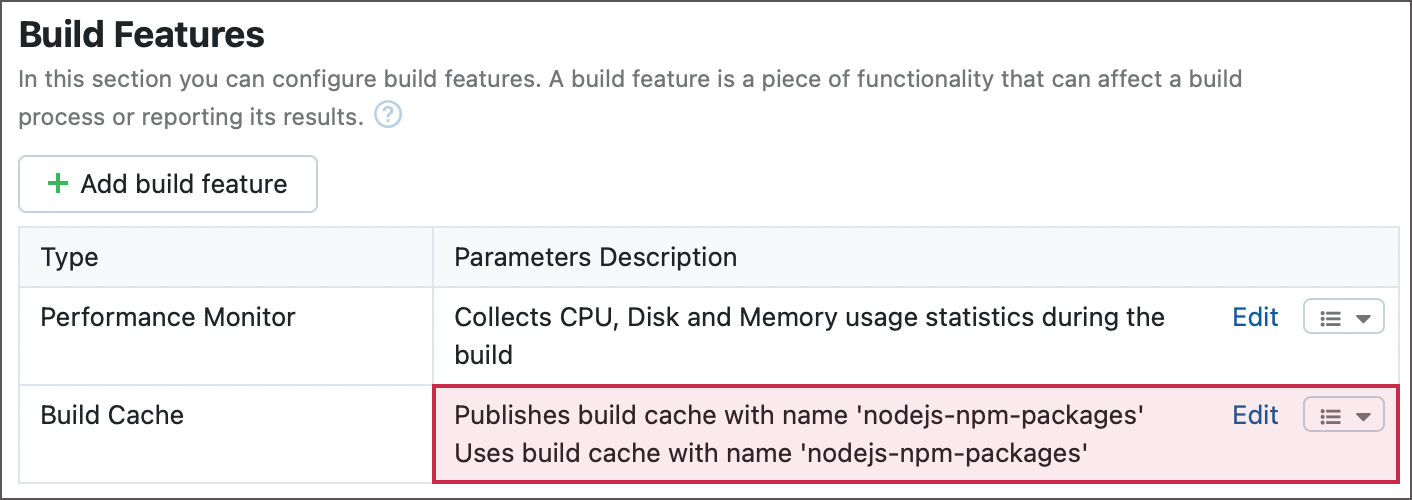
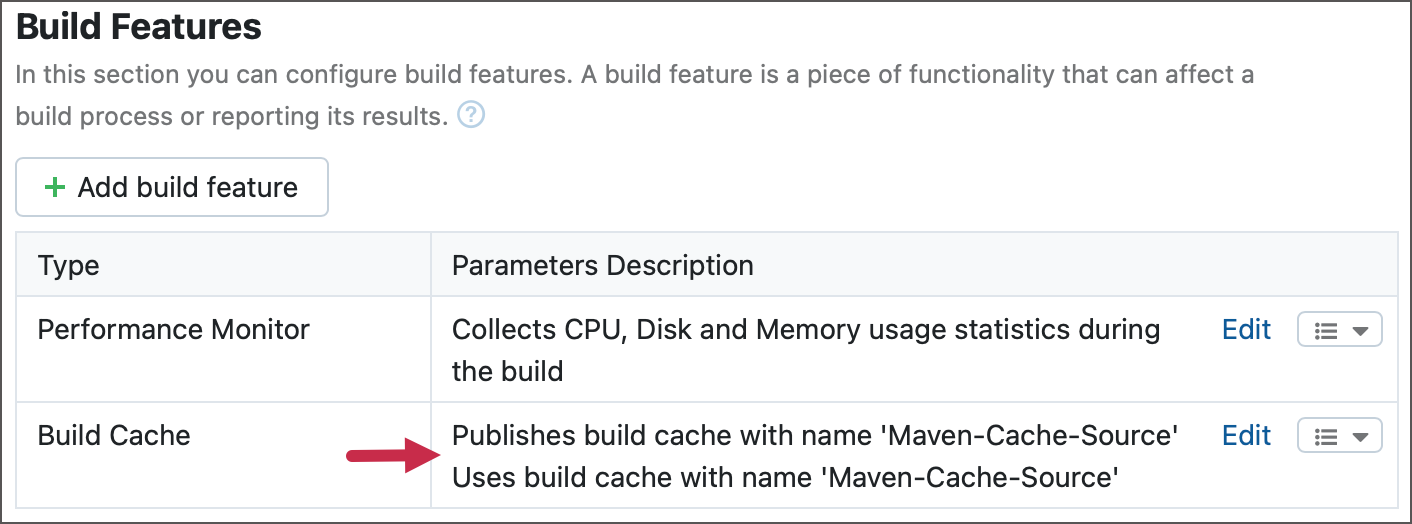
TW-79847, TW-83432, TW-83637 -- build caches

diff --git a/topics/build-cache.md b/topics/build-cache.md
@@ -1,50 +1,72 @@
 [//]: # (title: Build Cache)
 
-The "Build Cache" feature allows build configurations to keep specific files produced during a build run (for example, downloaded [npm](nodejs.md) packages) and reuse them during subsequent builds. This technique optimizes and accelerates building routines.
+The "Build Cache" feature allows build configurations to publish specific files produced during a build run (for example, downloaded [npm](nodejs.md) packages or [Maven local repository artifacts](https://maven.apache.org/guides/introduction/introduction-to-repositories.html)). Published caches can be reused during subsequent builds by the same configuration that published them, or other configurations. This technique optimizes and accelerates building routines.
 
-## Prerequisites
+> Build Cache is currently available as an experimental feature and may be changed in future releases.
+> 
+{type="warning"}
 
-Build Cache is currently available as an experimental feature and may be changed in future releases.
+## Common Information
 
-To enable this build feature, navigate to the **Administration | Experimental Features** page and tick the corresponding checkbox.
+### Cache Publishers and Consumers
 
-## Common Concepts
+You can set up a Build Cache feature to operate in either of two modes.
 
-Build Cache feature can work in one- or two-way mode. In two-way mode it downloads caches published by the same feature during a previous build. When you add a new Build Cache feature, it is configured to operate in this mode.
+* Initial Build Cache settings allow the feature to download caches published by the same feature during a previous build.
 
-In one-way mode one build configuration with the "Build Cache" feature publishes cache, and another build configuration downloads it. This mode allows you to set up "publisher" and "consumer" features to exchange caches between different build configurations **of the same project**.
+* Alternatively, you can set one Build Cache feature to publish a cache, and another Build Cache (from a different build configuration) to download it. This mode allows you to set up "publisher" and "consumer" features to exchange caches between different build configurations. The number of cache consumer features is unlimited, however, they should belong to the **same project** as the cache publisher.
+
+### Size Limits
+
+Caches are published as [hidden artifacts](build-artifact.md#Hidden+Artifacts) under the `.teamcity.build_cache` folder. To view a published cache, click the **Show hidden artifacts** link on the [](build-results-page.md#Artifacts+Tab).
+
+<img src="dk-publishedCaches.png" width="706" alt="Published artifacts"/>
+
+> Since caches are published as artifacts, they are affected by the **Maximum build artifact file size** setting that you can set on the [Administration | Global Settings](teamcity-configuration-and-maintenance.md#Build+Settings) page.
+> 
+{type="note"}
+
+### Order of Operations
+
+If a build configuration is configured to upload caches, it arranges its build stages in the following order:
+
+1. Resolve artifact dependencies
+2. Download caches
+3. Checkout the sources
+4. Start the build
 
 
 ## Publish and Use Cache Within the Same Build Configuration
 
 This section illustrates how to set up the Build Cache feature that allows a build configuration to reuse caches from its own previous builds.
 
-1. [Add the build feature](adding-build-features.md) to a build configuration and specify a unique **Cache Name**.
+1. <chunk id="settings-add-feature"><a href="adding-build-features.md">Add the build feature</a> to a build configuration and specify a unique <b>Cache Name</b>.</chunk>
 2. Since we want the feature to both publish and use cache, leave both **Publish** and **Use Cache** settings enabled.
-3. Specify paths to files and folders that should be cached (currently, only paths relative to the checkout directory are supported). Each path should start from a new line. Wildcards are not supported.
-   
-   The figure below illustrates the Build Cache feature configured to publish NodeJS packages downloaded by the `npm install` or `yarn install` build step.
+3. <chunk id="settings-specify-paths">Specify paths to files and folders that should be cached. Each path should start from a new line. Wildcards are not supported. Relative paths are resolved against checkout directories.
 
-   <img src="dk-buildcaches-paths.png" width="706" alt="Publishing NodeJS packages"/>
+   For example:
+
+   * to cache NodeJS packages downloaded by the <code>npm install</code> or <code>yarn install</code> commands, type <code>node_modules/</code> in this field.
+   * to upload local Maven artifacts (if the <a href="maven.md">Maven</a> runner's <b>Artifact repository</b> setting equals its default <b>Per agent</b> value), type <code>%\teamcity.agent.home.dir%/system/jetbrains.maven.runner/maven.repo.local</code>.
+   </chunk>
+
+4. <chunk id="settings-publish-if-changed">By default, new builds do not publish caches if they are identical to those published by previous builds. If you wish each build to upload a cache, uncheck the <b>Publish only if changed</b> setting.</chunk>
    
-4. Save the settings and ensure that the build feature description confirms that your feature both publishes and uses its cache.
+5. Save the settings. The feature's description on the **Build Features** page should state that it publishes and uses the same cache.
 
    <img src="dk-buildCaches-singleConfDescription.png" width="706" alt="Build Cache feature description"/>
 
-5. Run the build. If you correctly set up the feature, you should be able to see required files published as a ".teamcity.build_cache" [hidden artifact](build-artifact.md#Hidden+Artifacts) when the build finishes.
+6. <chunk id="settings-check-if-published">Run the build and ensure all cached files are available on the build results page as the ".teamcity.build_cache" <a href="build-artifact.md#Hidden+Artifacts">hidden artifact</a>.</chunk>
 
-    <img src="dk-buildCaches-publishedArtifact.png" width="706" alt="Publish build cache"/>
 
-6. To confirm that cache published during the previous run is used, run the build again and check the build log.
-   
-   <img src="dk-buildCaches-download.png" width="706" alt="Download build cache"/>
+7. To confirm that cache published during the previous run is used, run the build again and check the build log for corresponding messages.
+
 
 
 ## Exchange Caches Between Separate Build Configurations
 
 In this setup, the "publisher" Build Cache feature added to one build configuration publishes its cache, while the "consumer" Build Cache feature added to another configuration downloads this cache to this configuration's checkout directory.
 
-<img src="dk-buildCache-split.png" width="706" alt="Reuse caches published by other configurations"/> 
 
 You can set up as many publisher and consumer features as required as long as you add features for configurations that belong to the same project.
 
@@ -54,30 +76,27 @@ You can set up as many publisher and consumer features as required as long as yo
 
 ### Set Up a Publisher
 
-1. [Add the build feature](adding-build-features.md) to a build configuration and specify a unique **Cache Name**.
-2. Specify paths to files and folders that should be cached (currently, only paths relative to the checkout directory are supported). Each path should start from a new line. Wildcards are not supported.
-3. Uncheck the **Use Cache** checkbox and save feature settings.
+1. <include src="build-cache.md" include-id="settings-add-feature"/>
+2. <include src="build-cache.md" include-id="settings-specify-paths"/>
+3. <include src="build-cache.md" include-id="settings-publish-if-changed"/>
+4. Uncheck the **Use Cache** checkbox.
+5. Save the settings. The feature's description on the **Build Features** page should state that it only publishes the cache.
+
+   <img src="dk-buildCaches-onlyPublish.png" width="706" alt="Only publish"/>
+   
+6. <include src="build-cache.md" include-id="settings-check-if-published"/>
 
 ### Set Up a Consumer
 
 1. [Add the build feature](adding-build-features.md) to a build configuration and specify the same **Cache Name** the publisher feature uses.
-2. Uncheck the **Publish** checkbox and save feature settings.
-3. Repeat the steps above for every build configuration that needs this published cache.
+2. Uncheck the **Publish** checkbox.
+3. Save the settings. The feature's description on the **Build Features** page should state that it only uses the cache.
+   
+   <img src="dk-buildCaches-onlyUse.png" width="706" alt="Use only"/>
 
-## Additional Information
+4. Run a new build and check the build log to ensure the required cache file is downloaded.
+5. Repeat the steps above for every build configuration that needs this published cache.
 
-### Build Sequence
-
-If a build configuration is configured to upload caches, it arranges its build stages in the following order:
-
-1. Resolve artifact dependencies
-2. Download caches
-3. Checkout the sources
-4. Start the build
-
-### Transferring Caches
-
-Caches are automatically compressed into archives when published, and unpacked into the configuration's checkout directory when downloaded. You do not need to manually specify expressions (as you do with [regular artifacts](build-artifact.md)).
 
 ## Tell Us What You Think
 
